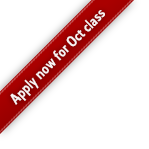
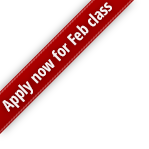
Added "Apply now for Feb class" ribbon

Changed region(s): [[0.0, 0.0, 0.7517, 0.7517]]

diff --git a/site/site/snippets/footer.php b/site/site/snippets/footer.php
@@ -40,8 +40,8 @@
 </div>
 <!-- /outer-wrapper -->
 
-<!-- 'Apply for Oct class' ribbon -->
-<!-- <a href="/apply/"><img style="position: absolute; top: 0; left: 0; border: 0;" src="/assets/images/apply.png" alt="Apply for Oct class" /></a> -->
+<!-- 'Apply for Feb class' ribbon -->
+<a href="/apply/"><img style="position: absolute; top: 0; left: 0; border: 0;" src="/assets/images/apply.png" alt="Apply for Oct class" /></a>
 
 <!-- Included JS Files -->
 <script src="/assets/javascripts/jquery.min.js"></script>
